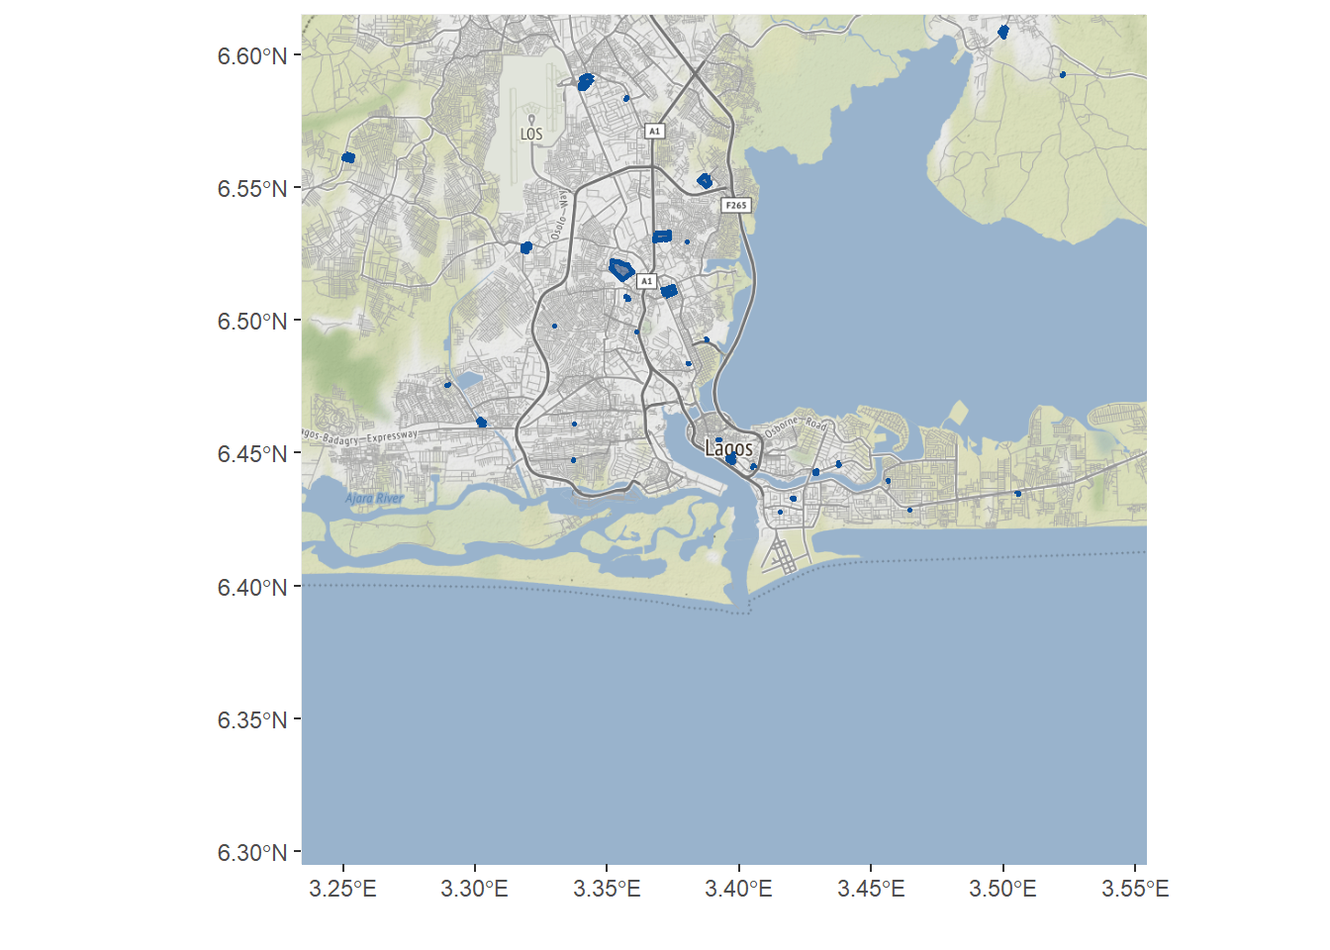
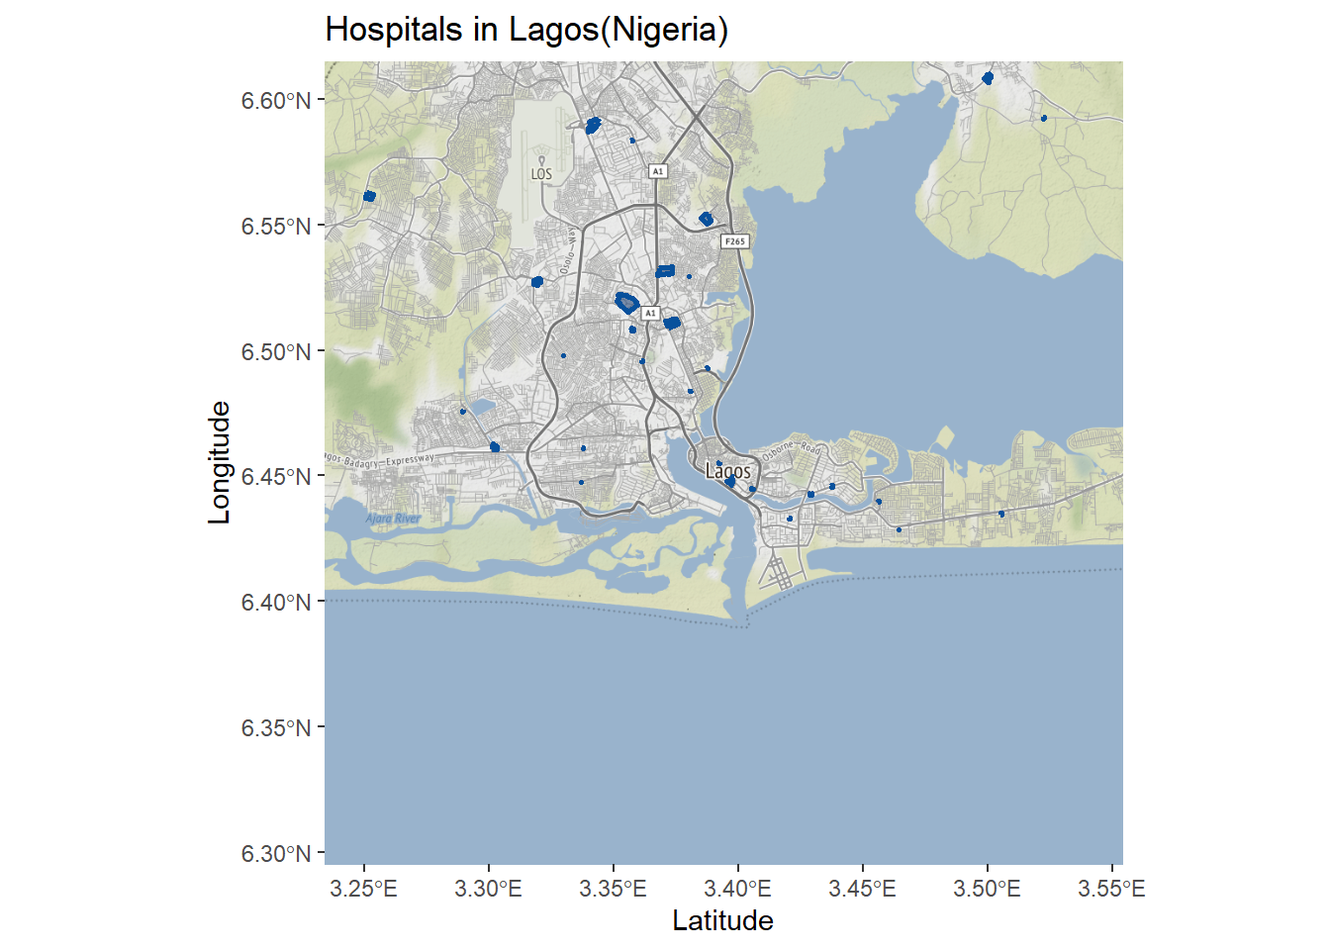
Updated osm figure titles

diff --git a/docs/osm.html b/docs/osm.html
@@ -364,7 +364,7 @@ div.tocify {
       <a href="land_cover.html">Land Cover</a>
     </li>
     <li>
-      <a href="dhs.html">DHS</a>
+      <a href="dhs-data.html">DHS</a>
     </li>
     <li>
       <a href="malaria.html">Malaria</a>
@@ -616,7 +616,7 @@ lagos_hospitals$bbox</code></pre>
 <pre class="r"><code># metadata
 lagos_hospitals$meta</code></pre>
 <pre><code>## $timestamp
-## [1] &quot;[ Thu 5 Apr 2021 09:35:12 ]&quot;
+## [1] &quot;[ Sun 1 Apr 2021 03:08:59 ]&quot;
 ## 
 ## $OSM_version
 ## [1] &quot;0.6&quot;
@@ -1769,8 +1769,10 @@ ggmap(lagos_map) +
           colour = &quot;#08519c&quot;,
           fill = &quot;#08306b&quot;,
           alpha = .5,
-          size = 1)+
-  labs(x = &quot;&quot;, y = &quot;&quot;)</code></pre>
+          size = 1) +
+  labs(title = &quot;Hospitals in Lagos(Nigeria)&quot;,
+       x = &quot;Latitude&quot;,
+       y = &quot;Longitude&quot;)</code></pre>
 <p><img src="osm_files/figure-html/lagos-hospitals-example-1.png" width="672" /></p>
 <p>The <code>osmdata</code> package can also be used to download other spatial features such as highways and rivers in Lagos, and overlay them on top of each other using <code>ggplot2</code> to create a map of Lagos. For this we create multiple queries for each feature as follows.</p>
 <pre class="r"><code>library(osmdata)
@@ -1803,14 +1805,17 @@ lagos_hospitals &lt;- lagos_bb %&gt;%
   add_osm_feature(&quot;amenity&quot;, &quot;hospital&quot;) %&gt;%
   osmdata_sf()</code></pre>
 <p>Then we use the <code>ggplot2</code> package to visualise each of these features along with the hospitals in Lagos. Note how we have used different colours, line sizes (thicknesses) and opacities to differentiate among the features.</p>
-<pre class="r"><code># visualising all retreived features over each other to form a map of Lagos
+<pre class="r"><code># visualising all retrieved features over each other to form a map of Lagos
 ggplot() +
   geom_sf(data = lagos_streets$osm_lines, inherit.aes = FALSE, color = &quot;#ffbe7f&quot;, size = .4, alpha = .8) +
   geom_sf(data = lagos_small_streets$osm_lines, inherit.aes = FALSE, color = &quot;#a6a6a6&quot;, size = .2, alpha = .8) +
   geom_sf(data = lagos_rivers$osm_lines, inherit.aes = FALSE, color = &quot;#7fc0ff&quot;, size = .8, alpha = .5) +
   geom_sf(data = lagos_hospitals$osm_polygons, inherit.aes = FALSE, colour = &quot;#08519c&quot;, fill = &quot;#08306b&quot;,alpha = .5, size = 1) +
   coord_sf(xlim = c(3.23, 3.56), ylim = c(6.4,6.629), expand = FALSE) +
-  theme_bw()</code></pre>
+  theme_bw() +
+  labs(title = &quot;Hospitals in Lagos(Nigeria)&quot;,
+       x = &quot;Latitude&quot;,
+       y = &quot;Longitude&quot;)</code></pre>
 <p><img src="osm_files/figure-html/vis-lagos-features-and-hospitals-example-1.png" width="672" /></p>
 <p>We can also use the <code>leaflet</code> package to visualise an interactive map of the hospitals in Lagos.</p>
 <pre class="r"><code>#install.packages(&quot;leaflet&quot;)
@@ -1820,8 +1825,8 @@ leaflet() %&gt;%
   addTiles() %&gt;% 
   addPolygons(data = lagos_hospitals$osm_polygons,
               label = lagos_hospitals$osm_polygons$name)</code></pre>
-<div id="htmlwidget-486f8dc056bdd3f77128" style="width:672px;height:480px;" class="leaflet html-widget"></div>
-<script type="application/json" data-for="htmlwidget-486f8dc056bdd3f77128">{"x":{"options":{"crs":{"crsClass":"L.CRS.EPSG3857","code":null,"proj4def":null,"projectedBounds":null,"options":{}}},"calls":[{"method":"addTiles","args":["//{s}.tile.openstreetmap.org/{z}/{x}/{y}.png",null,null,{"minZoom":0,"maxZoom":18,"tileSize":256,"subdomains":"abc","errorTileUrl":"","tms":false,"noWrap":false,"zoomOffset":0,"zoomReverse":false,"opacity":1,"zIndex":1,"detectRetina":false,"attribution":"&copy; <a href=\"http://openstreetmap.org\">OpenStreetMap<\/a> contributors, <a href=\"http://creativecommons.org/licenses/by-sa/2.0/\">CC-BY-SA<\/a>"}]},{"method":"addPolygons","args":[[[[{"lng":[3.3879416,3.3870162,3.3866818,3.3848376,3.386569,3.3873583,3.3881526,3.3882941,3.3889711,3.3887527,3.3886271,3.388594,3.3881013,3.3880034,3.3879416],"lat":[6.5542207,6.5541097,6.5543968,6.5525167,6.5511423,6.5504759,6.5508598,6.5509942,6.5515684,6.5519514,6.5519812,6.5522151,6.5532259,6.5540817,6.5542207]}]],[[{"lng":[3.3681755,3.3681953,3.3682322,3.3679506,3.367964,3.3676778,3.3676868,3.369322,3.3695373,3.3700726,3.3715489,3.3724542,3.3728672,3.3734057,3.3735859,3.3736072,3.3736125,3.3736024,3.3735694,3.3735594,3.3735715,3.3733498,3.3724809,3.3709842,3.3695278,3.368699,3.3681755],"lat":[6.532734,6.5321606,6.5310949,6.5310923,6.5305353,6.5305248,6.529706,6.5300765,6.5301253,6.5302916,6.5305642,6.5303645,6.5304715,6.53049,6.530506,6.530888,6.5309826,6.531487,6.5319167,6.5320472,6.5324553,6.5331544,6.532931,6.5328457,6.5327924,6.5327566,6.532734]}]],[[{"lng":[3.4369585,3.4370621,3.4372653,3.4373038,3.4374614,3.4374953,3.4375116,3.4376827,3.4378875,3.4378218,3.4376453,3.4376202,3.4373055,3.4372853,3.4372301,3.4369585],"lat":[6.4460012,6.4457112,6.4457795,6.4456797,6.445667,6.445537,6.445457,6.4455146,6.4455835,6.4457629,6.4462445,6.4462356,6.4461245,6.4461175,6.4460985,6.4460012]}]],[[{"lng":[3.3568566,3.3573568,3.3574587,3.3569585,3.3568566],"lat":[6.5834889,6.5836834,6.5834316,6.5832331,6.5834889]}]],[[{"lng":[3.420182,3.4207523,3.420635,3.4205885,3.4204135,3.4201467,3.4201385,3.4201306,3.4200905,3.4200791,3.4201586,3.420182],"lat":[6.4332741,6.4331235,6.4326832,6.4326959,6.4327441,6.4328174,6.4328546,6.4328911,6.4329023,6.4329047,6.4331902,6.4332741]}]],[[{"lng":[3.4560249,3.4561498,3.4561533,3.4563991,3.4563991,3.4564215,3.4564582,3.4564586,3.4562689,3.4561521,3.4560249],"lat":[6.4394842,6.439602,6.4397273,6.4397255,6.4396826,6.4396605,6.43966,6.4394448,6.4394442,6.4393578,6.4394842]}]],[[{"lng":[3.505188,3.5051797,3.5052098,3.5052036,3.5051727,3.5051586,3.5051591,3.5051719,3.505194,3.5052241,3.5056984,3.5056832,3.505188],"lat":[6.4344648,6.4345939,6.4346271,6.4346939,6.4347026,6.4349196,6.4349513,6.4349741,6.4349864,6.4349917,6.4350385,6.4345095,6.4344648]}]],[[{"lng":[3.4290805,3.429164,3.4292709,3.4295033,3.4292069,3.4289924,3.428983,3.4289186,3.4288703,3.428818,3.4285981,3.428666,3.4287335,3.4290983,3.4291318,3.4290805],"lat":[6.4433276,6.4433482,6.4430498,6.4424007,6.4424127,6.4424966,6.442478,6.44247,6.4424194,6.442402,6.4423514,6.442668,6.4429831,6.4430537,6.443095,6.4433276]}]],[[{"lng":[3.3958197,3.3957649,3.3957532,3.3957397,3.3955232,3.3954115,3.3954153,3.3960519,3.3964529,3.3966528,3.3967113,3.3967879,3.3969659,3.3970528,3.3973409,3.3973953,3.3977544,3.3977038,3.397677,3.3977122,3.3978541,3.3976272,3.397609,3.3968522,3.3967058,3.3965582,3.3965228,3.3964749,3.3961821,3.3960981,3.3958197],"lat":[6.4485127,6.4484039,6.4483837,6.4483608,6.4479601,6.4477556,6.4476863,6.4472802,6.4469954,6.4468411,6.4467942,6.4467358,6.4466003,6.4465331,6.4463045,6.446375,6.4468755,6.446925,6.4469494,6.4470005,6.4471925,6.4473581,6.4473716,6.4479345,6.448049,6.4481375,6.4481652,6.4481047,6.4483335,6.4483744,6.4485127]}]],[[{"lng":[3.3444917,3.3445296,3.3445537,3.344661,3.3438268,3.3433413,3.3428693,3.3425662,3.3420512,3.3418983,3.3422336,3.3416623,3.3412331,3.3410481,3.3406612,3.3403212,3.3398974,3.3398708,3.3397686,3.3400851,3.3400411,3.3398292,3.3397418,3.3400328,3.3405599,3.3410668,3.340804,3.3401307,3.3401504,3.3401823,3.3402085,3.3401415,3.3401388,3.340179,3.3403426,3.340745,3.3422068,3.3427003,3.3428666,3.3430007,3.343057,3.3430235,3.3430409,3.3431187,3.3431523,3.3432032,3.3442533,3.3444947,3.3444766,3.3444917],"lat":[6.5909877,6.5909641,6.5909854,6.5908389,6.5899729,6.5894667,6.5889764,6.5892642,6.5887339,6.5885927,6.588273,6.5876921,6.5872391,6.5874257,6.5873051,6.5871992,6.5870713,6.5871131,6.5872738,6.5879106,6.5880199,6.5883743,6.5885234,6.5888392,6.5893614,6.5898557,6.5900955,6.5907589,6.5907818,6.590819,6.5908495,6.5909375,6.5909748,6.591036,6.5911133,6.5913025,6.5918301,6.5920059,6.5919926,6.5919366,6.5919033,6.5918514,6.5918447,6.5917808,6.5917581,6.5917901,6.5911719,6.5910181,6.5910001,6.5909877]}]],[[{"lng":[3.2510138,3.2535265,3.2530092,3.2503709,3.2510138],"lat":[6.5627677,6.5620042,6.5599999,6.5606973,6.5627677]}]],[[{"lng":[3.4057919,3.4058357,3.4053896,3.4050315,3.4051764,3.4054384,3.4055746,3.4057919],"lat":[6.4443262,6.444822,6.4451212,6.4447121,6.4445924,6.4443818,6.4442694,6.4443262]}]],[[{"lng":[3.3979508,3.3976116,3.3973687,3.3977079,3.3979508],"lat":[6.4494278,6.4489219,6.4490828,6.4495886,6.4494278]}]],[[{"lng":[3.3972393,3.3970956,3.3971464,3.3975027,3.3975828,3.397681,3.3973135,3.3972393],"lat":[6.448899,6.4486827,6.4486405,6.4483925,6.448494,6.4486264,6.4489057,6.448899]}]],[[{"lng":[3.3923634,3.3923792,3.3925045,3.3924649,3.3924115,3.3921738,3.3919891,3.3923634],"lat":[6.45531,6.455289,6.4551089,6.4550504,6.4549794,6.4548173,6.4550926,6.45531]}]],[[{"lng":[3.3014129,3.3032976,3.3031418,3.3034174,3.3030549,3.3018062,3.3016699,3.3018295,3.3018451,3.3017463,3.3012086,3.3013483,3.3013483,3.3013836,3.3013916,3.301409,3.3013739,3.3014129],"lat":[6.4604225,6.460407,6.4612195,6.4615926,6.461788,6.4626744,6.4624074,6.4623145,6.4621172,6.4621113,6.4621043,6.4616194,6.4614146,6.461418,6.4613351,6.4611538,6.4610764,6.4604225]}]],[[{"lng":[3.2895759,3.2898819,3.2895368,3.2894734,3.2894285,3.2893893,3.2891917,3.2895759],"lat":[6.476061,6.4757914,6.4754048,6.4754607,6.4755003,6.4754564,6.4756305,6.476061]}]],[[{"lng":[3.3520403,3.3520733,3.3520279,3.3519649,3.3518802,3.3517821,3.3519287,3.3530839,3.3540803,3.3541243,3.3541544,3.3541983,3.3542419,3.3542337,3.3542775,3.3550924,3.3552401,3.3552373,3.357764,3.3586588,3.3590088,3.3589437,3.3596776,3.3596807,3.3587951,3.3574884,3.3573459,3.3559022,3.3556198,3.355182,3.3550722,3.3549516,3.3541694,3.3542101,3.3541604,3.3540135,3.3539681,3.3539436,3.3530741,3.3524675,3.3523237,3.3523658,3.3524009,3.3523495,3.3522817,3.352187,3.3518223,3.3515594,3.351356,3.3513245,3.3513841,3.3515699,3.3516505,3.3516996,3.3518609,3.3519941,3.3520403],"lat":[6.5211661,6.5214194,6.5216076,6.5217817,6.521925,6.522047,6.5224051,6.5221321,6.5219485,6.5219762,6.5220631,6.5220563,6.5220495,6.5219517,6.5219083,6.5217316,6.521699,6.5213323,6.5207618,6.5196143,6.519162,6.519079,6.518116,6.5179837,6.5173869,6.516464,6.5163563,6.5152654,6.5152883,6.5157828,6.5159068,6.5159407,6.516633,6.5168691,6.5168892,6.5169362,6.5169527,6.5168377,6.5176215,6.518158,6.5182834,6.5186527,6.5187851,6.518826,6.5188791,6.5188129,6.5190219,6.5192379,6.5194086,6.5195166,6.5196768,6.5199869,6.5201576,6.5204641,6.520802,6.5211364,6.5211661]}]],[[{"lng":[3.3568871,3.3571103,3.3570996,3.3578219,3.3579076,3.3580176,3.3578328,3.3577026,3.3576048,3.3573879,3.3571648,3.3570568,3.3568871],"lat":[6.508001,6.507955,6.507894,6.5077719,6.5078888,6.5079775,6.5083166,6.5085481,6.5086392,6.5087396,6.5088353,6.5088615,6.508001]}]],[[{"lng":[3.5000429,3.500392,3.5008914,3.5012447,3.5008508,3.5010132,3.5003433,3.5003078,3.5002865,3.5000957,3.4992999,3.4986218,3.4990412,3.5000429],"lat":[6.6105552,6.6103213,6.609809,6.6095872,6.6089016,6.6087806,6.6076594,6.6071351,6.6068205,6.6066228,6.6075343,6.6082563,6.6089424,6.6105552]}]],[[{"lng":[3.319058,3.3183686,3.3179516,3.317906,3.3194724,3.3199552,3.3205935,3.3205265,3.3204836,3.3203762,3.3201215,3.3196387,3.3195931,3.3194925,3.3194911,3.3194105,3.3193544,3.3193423,3.319058],"lat":[6.528101,6.5280011,6.5279331,6.5262077,6.525704,6.5275827,6.527159,6.5282436,6.5283597,6.5286469,6.52859,6.5285287,6.5285262,6.52853,6.5284954,6.5284966,6.5284967,6.528173,6.528101]}]],[[{"lng":[3.3613477,3.3610983,3.3611023,3.3612163,3.3613692,3.3613611,3.3613598,3.3613477],"lat":[6.4957053,6.4955987,6.4954695,6.4955094,6.4955614,6.495664,6.495712,6.4957053]}]],[[{"lng":[3.5220945,3.5222715,3.5227141,3.5226202,3.5220945],"lat":[6.5927333,6.5921178,6.5922857,6.5928079,6.5927333]}]],[[{"lng":[3.415044,3.4152799,3.4152826,3.4150467,3.415044],"lat":[6.4276863,6.4276824,6.4278437,6.4278476,6.4276863]}]],[[{"lng":[3.3709586,3.3707499,3.3711102,3.3713189,3.3709586],"lat":[6.5110462,6.5115328,6.5116853,6.5111988,6.5110462]}]],[[{"lng":[3.464045,3.4643802,3.4643855,3.4640503,3.464045],"lat":[6.4286288,6.4286355,6.4283703,6.4283636,6.4286288]}]],[[{"lng":[3.3718634,3.3710695,3.3722171,3.3721531,3.3738111,3.3739381,3.3749416,3.3757769,3.3739435,3.3718634],"lat":[6.5090162,6.5108991,6.5113888,6.5115981,6.5124266,6.5121667,6.5125673,6.5105826,6.5098613,6.5090162]}]],[[{"lng":[3.3726575,3.373387,3.3736284,3.3736713,3.3737598,3.3738028,3.373784,3.3729874,3.3726575],"lat":[6.5103263,6.5104516,6.5099266,6.5098999,6.5098999,6.509812,6.5097694,6.5094496,6.5103263]}]],[[{"lng":[3.3375176,3.3374917,3.3375953,3.3376212,3.3375176],"lat":[6.4611829,6.4610041,6.4609893,6.461168,6.4611829]}]],[[{"lng":[3.3803097,3.380197,3.3801895,3.3803022,3.3803097],"lat":[6.5290361,6.5290336,6.5293646,6.5293672,6.5290361]}]],[[{"lng":[3.3300359,3.3301099,3.329957,3.3298829,3.3300359],"lat":[6.4979955,6.4979224,6.4977695,6.4978427,6.4979955]}]],[[{"lng":[3.3871468,3.3874687,3.3877315,3.387458,3.3871468],"lat":[6.4927187,6.4929586,6.4926361,6.4925588,6.4927187]}]],[[{"lng":[3.3804538,3.3805557,3.3808373,3.3807461,3.3804538],"lat":[6.484301,6.4843409,6.4836587,6.4836187,6.484301]}]],[[{"lng":[3.3369255,3.3370425,3.3371015,3.3369845,3.3369255],"lat":[6.4476051,6.4476288,6.4473409,6.4473172,6.4476051]}]]],null,null,{"interactive":true,"className":"","stroke":true,"color":"#03F","weight":5,"opacity":0.5,"fill":true,"fillColor":"#03F","fillOpacity":0.2,"smoothFactor":1,"noClip":false},null,null,["Gbagada General Hospital","National Orthopaedic Hospital Igbobi","Gold Cross Hospital - Bourdillon","Reddington Hospital - Ikeja GRA","Reddington Hospital","Eye Foundation Hospital &amp; Laser Centre","St. Kizito Clinic &amp; Maternity Ward","Nigerian Police Hospital - Falomo","General Hospital Lagos","Lagos State University Teaching Hospital","Alimosho General Hospital Igando","Onikan Health Centre","St Nicholas Hospital","Lagos Island Maternity Hospital","Massey Street Children Hospital","Amuwo Odofin Maternal &amp; Childcare Centre","Emel Hospital","Lagos University Teaching Hospital","Randle General Hospital","General Hospital Ikorodu","Isolo General Hospital","Parklande Specialist Hospital","Health Center","Glen Eagles Hospital","Lagos Emergency Operations Center","Medison Specialist Women's Hospital","Lagos Health Center Harvey Road","Federal Psychiatric Hospital Yaba","Teaching / Specialist Hospital","MARANATHA MEDICAL CENTER","St. LukeÃƒÂ¢Ã‚â‚¬Ã‚Ëœs medical center","Ayeitoro PHC","Federal Medical Centre","Abbey Medical Centre"],{"interactive":false,"permanent":false,"direction":"auto","opacity":1,"offset":[0,0],"textsize":"10px","textOnly":false,"className":"","sticky":true},null]}],"limits":{"lat":[6.4276824,6.6105552],"lng":[3.2503709,3.5227141]}},"evals":[],"jsHooks":[]}</script>
+<div id="htmlwidget-7907073fd8fd6afec751" style="width:672px;height:480px;" class="leaflet html-widget"></div>
+<script type="application/json" data-for="htmlwidget-7907073fd8fd6afec751">{"x":{"options":{"crs":{"crsClass":"L.CRS.EPSG3857","code":null,"proj4def":null,"projectedBounds":null,"options":{}}},"calls":[{"method":"addTiles","args":["//{s}.tile.openstreetmap.org/{z}/{x}/{y}.png",null,null,{"minZoom":0,"maxZoom":18,"tileSize":256,"subdomains":"abc","errorTileUrl":"","tms":false,"noWrap":false,"zoomOffset":0,"zoomReverse":false,"opacity":1,"zIndex":1,"detectRetina":false,"attribution":"&copy; <a href=\"http://openstreetmap.org\">OpenStreetMap<\/a> contributors, <a href=\"http://creativecommons.org/licenses/by-sa/2.0/\">CC-BY-SA<\/a>"}]},{"method":"addPolygons","args":[[[[{"lng":[3.3879416,3.3870162,3.3866818,3.3848376,3.386569,3.3873583,3.3881526,3.3882941,3.3889711,3.3887527,3.3886271,3.388594,3.3881013,3.3880034,3.3879416],"lat":[6.5542207,6.5541097,6.5543968,6.5525167,6.5511423,6.5504759,6.5508598,6.5509942,6.5515684,6.5519514,6.5519812,6.5522151,6.5532259,6.5540817,6.5542207]}]],[[{"lng":[3.3681755,3.3681953,3.3682322,3.3679506,3.367964,3.3676778,3.3676868,3.369322,3.3695373,3.3700726,3.3715489,3.3724542,3.3728672,3.3734057,3.3735859,3.3736072,3.3736125,3.3736024,3.3735694,3.3735594,3.3735715,3.3733498,3.3724809,3.3709842,3.3695278,3.368699,3.3681755],"lat":[6.532734,6.5321606,6.5310949,6.5310923,6.5305353,6.5305248,6.529706,6.5300765,6.5301253,6.5302916,6.5305642,6.5303645,6.5304715,6.53049,6.530506,6.530888,6.5309826,6.531487,6.5319167,6.5320472,6.5324553,6.5331544,6.532931,6.5328457,6.5327924,6.5327566,6.532734]}]],[[{"lng":[3.4369585,3.4370621,3.4372653,3.4373038,3.4374614,3.4374953,3.4375116,3.4376827,3.4378875,3.4378218,3.4376453,3.4376202,3.4373055,3.4372853,3.4372301,3.4369585],"lat":[6.4460012,6.4457112,6.4457795,6.4456797,6.445667,6.445537,6.445457,6.4455146,6.4455835,6.4457629,6.4462445,6.4462356,6.4461245,6.4461175,6.4460985,6.4460012]}]],[[{"lng":[3.3568566,3.3573568,3.3574587,3.3569585,3.3568566],"lat":[6.5834889,6.5836834,6.5834316,6.5832331,6.5834889]}]],[[{"lng":[3.420182,3.4207523,3.420635,3.4205885,3.4204135,3.4201467,3.4201385,3.4201306,3.4200905,3.4200791,3.4201586,3.420182],"lat":[6.4332741,6.4331235,6.4326832,6.4326959,6.4327441,6.4328174,6.4328546,6.4328911,6.4329023,6.4329047,6.4331902,6.4332741]}]],[[{"lng":[3.4560249,3.4561498,3.4561533,3.4563991,3.4563991,3.4564215,3.4564582,3.4564586,3.4562689,3.4561521,3.4560249],"lat":[6.4394842,6.439602,6.4397273,6.4397255,6.4396826,6.4396605,6.43966,6.4394448,6.4394442,6.4393578,6.4394842]}]],[[{"lng":[3.505188,3.5051797,3.5052098,3.5052036,3.5051727,3.5051586,3.5051591,3.5051719,3.505194,3.5052241,3.5056984,3.5056832,3.505188],"lat":[6.4344648,6.4345939,6.4346271,6.4346939,6.4347026,6.4349196,6.4349513,6.4349741,6.4349864,6.4349917,6.4350385,6.4345095,6.4344648]}]],[[{"lng":[3.4290805,3.429164,3.4292709,3.4295033,3.4292069,3.4289924,3.428983,3.4289186,3.4288703,3.428818,3.4285981,3.428666,3.4287335,3.4290983,3.4291318,3.4290805],"lat":[6.4433276,6.4433482,6.4430498,6.4424007,6.4424127,6.4424966,6.442478,6.44247,6.4424194,6.442402,6.4423514,6.442668,6.4429831,6.4430537,6.443095,6.4433276]}]],[[{"lng":[3.3958197,3.3957649,3.3957532,3.3957397,3.3955232,3.3954115,3.3954153,3.3960519,3.3964529,3.3966528,3.3967113,3.3967879,3.3969659,3.3970528,3.3973409,3.3973953,3.3977544,3.3977038,3.397677,3.3977122,3.3978541,3.3976272,3.397609,3.3968522,3.3967058,3.3965582,3.3965228,3.3964749,3.3961821,3.3960981,3.3958197],"lat":[6.4485127,6.4484039,6.4483837,6.4483608,6.4479601,6.4477556,6.4476863,6.4472802,6.4469954,6.4468411,6.4467942,6.4467358,6.4466003,6.4465331,6.4463045,6.446375,6.4468755,6.446925,6.4469494,6.4470005,6.4471925,6.4473581,6.4473716,6.4479345,6.448049,6.4481375,6.4481652,6.4481047,6.4483335,6.4483744,6.4485127]}]],[[{"lng":[3.3444917,3.3445296,3.3445537,3.344661,3.3438268,3.3433413,3.3428693,3.3425662,3.3420512,3.3418983,3.3422336,3.3416623,3.3412331,3.3410481,3.3406612,3.3403212,3.3398974,3.3398708,3.3397686,3.3400851,3.3400411,3.3398292,3.3397418,3.3400328,3.3405599,3.3410668,3.340804,3.3401307,3.3401504,3.3401823,3.3402085,3.3401415,3.3401388,3.340179,3.3403426,3.340745,3.3422068,3.3427003,3.3428666,3.3430007,3.343057,3.3430235,3.3430409,3.3431187,3.3431523,3.3432032,3.3442533,3.3444947,3.3444766,3.3444917],"lat":[6.5909877,6.5909641,6.5909854,6.5908389,6.5899729,6.5894667,6.5889764,6.5892642,6.5887339,6.5885927,6.588273,6.5876921,6.5872391,6.5874257,6.5873051,6.5871992,6.5870713,6.5871131,6.5872738,6.5879106,6.5880199,6.5883743,6.5885234,6.5888392,6.5893614,6.5898557,6.5900955,6.5907589,6.5907818,6.590819,6.5908495,6.5909375,6.5909748,6.591036,6.5911133,6.5913025,6.5918301,6.5920059,6.5919926,6.5919366,6.5919033,6.5918514,6.5918447,6.5917808,6.5917581,6.5917901,6.5911719,6.5910181,6.5910001,6.5909877]}]],[[{"lng":[3.2510138,3.2535265,3.2530092,3.2503709,3.2510138],"lat":[6.5627677,6.5620042,6.5599999,6.5606973,6.5627677]}]],[[{"lng":[3.4057919,3.4058357,3.4053896,3.4050315,3.4051764,3.4054384,3.4055746,3.4057919],"lat":[6.4443262,6.444822,6.4451212,6.4447121,6.4445924,6.4443818,6.4442694,6.4443262]}]],[[{"lng":[3.3979508,3.3976116,3.3973687,3.3977079,3.3979508],"lat":[6.4494278,6.4489219,6.4490828,6.4495886,6.4494278]}]],[[{"lng":[3.3972393,3.3970956,3.3971464,3.3975027,3.3975828,3.397681,3.3973135,3.3972393],"lat":[6.448899,6.4486827,6.4486405,6.4483925,6.448494,6.4486264,6.4489057,6.448899]}]],[[{"lng":[3.3923634,3.3923792,3.3925045,3.3924649,3.3924115,3.3921738,3.3919891,3.3923634],"lat":[6.45531,6.455289,6.4551089,6.4550504,6.4549794,6.4548173,6.4550926,6.45531]}]],[[{"lng":[3.3014129,3.3032976,3.3031418,3.3034174,3.3030549,3.3018062,3.3016699,3.3018295,3.3018451,3.3017463,3.3012086,3.3013483,3.3013483,3.3013836,3.3013916,3.301409,3.3013739,3.3014129],"lat":[6.4604225,6.460407,6.4612195,6.4615926,6.461788,6.4626744,6.4624074,6.4623145,6.4621172,6.4621113,6.4621043,6.4616194,6.4614146,6.461418,6.4613351,6.4611538,6.4610764,6.4604225]}]],[[{"lng":[3.2895759,3.2898819,3.2895368,3.2894734,3.2894285,3.2893893,3.2891917,3.2895759],"lat":[6.476061,6.4757914,6.4754048,6.4754607,6.4755003,6.4754564,6.4756305,6.476061]}]],[[{"lng":[3.3520403,3.3520733,3.3520279,3.3519649,3.3518802,3.3517821,3.3519287,3.3530839,3.3540803,3.3541243,3.3541544,3.3541983,3.3542419,3.3542337,3.3542775,3.3550924,3.3552401,3.3552373,3.357764,3.3586588,3.3590088,3.3589437,3.3596776,3.3596807,3.3587951,3.3574884,3.3573459,3.3559022,3.3556198,3.355182,3.3550722,3.3549516,3.3541694,3.3542101,3.3541604,3.3540135,3.3539681,3.3539436,3.3530741,3.3524675,3.3523237,3.3523658,3.3524009,3.3523495,3.3522817,3.352187,3.3518223,3.3515594,3.351356,3.3513245,3.3513841,3.3515699,3.3516505,3.3516996,3.3518609,3.3519941,3.3520403],"lat":[6.5211661,6.5214194,6.5216076,6.5217817,6.521925,6.522047,6.5224051,6.5221321,6.5219485,6.5219762,6.5220631,6.5220563,6.5220495,6.5219517,6.5219083,6.5217316,6.521699,6.5213323,6.5207618,6.5196143,6.519162,6.519079,6.518116,6.5179837,6.5173869,6.516464,6.5163563,6.5152654,6.5152883,6.5157828,6.5159068,6.5159407,6.516633,6.5168691,6.5168892,6.5169362,6.5169527,6.5168377,6.5176215,6.518158,6.5182834,6.5186527,6.5187851,6.518826,6.5188791,6.5188129,6.5190219,6.5192379,6.5194086,6.5195166,6.5196768,6.5199869,6.5201576,6.5204641,6.520802,6.5211364,6.5211661]}]],[[{"lng":[3.3568871,3.3571103,3.3570996,3.3578219,3.3579076,3.3580176,3.3578328,3.3577026,3.3576048,3.3573879,3.3571648,3.3570568,3.3568871],"lat":[6.508001,6.507955,6.507894,6.5077719,6.5078888,6.5079775,6.5083166,6.5085481,6.5086392,6.5087396,6.5088353,6.5088615,6.508001]}]],[[{"lng":[3.5000429,3.500392,3.5008914,3.5012447,3.5008508,3.5010132,3.5003433,3.5003078,3.5002865,3.5000957,3.4992999,3.4986218,3.4990412,3.5000429],"lat":[6.6105552,6.6103213,6.609809,6.6095872,6.6089016,6.6087806,6.6076594,6.6071351,6.6068205,6.6066228,6.6075343,6.6082563,6.6089424,6.6105552]}]],[[{"lng":[3.319058,3.3183686,3.3179516,3.317906,3.3194724,3.3199552,3.3205935,3.3205265,3.3204836,3.3203762,3.3201215,3.3196387,3.3195931,3.3194925,3.3194911,3.3194105,3.3193544,3.3193423,3.319058],"lat":[6.528101,6.5280011,6.5279331,6.5262077,6.525704,6.5275827,6.527159,6.5282436,6.5283597,6.5286469,6.52859,6.5285287,6.5285262,6.52853,6.5284954,6.5284966,6.5284967,6.528173,6.528101]}]],[[{"lng":[3.3613477,3.3610983,3.3611023,3.3612163,3.3613692,3.3613611,3.3613598,3.3613477],"lat":[6.4957053,6.4955987,6.4954695,6.4955094,6.4955614,6.495664,6.495712,6.4957053]}]],[[{"lng":[3.5220945,3.5222715,3.5227141,3.5226202,3.5220945],"lat":[6.5927333,6.5921178,6.5922857,6.5928079,6.5927333]}]],[[{"lng":[3.415044,3.4152799,3.4152826,3.4150467,3.415044],"lat":[6.4276863,6.4276824,6.4278437,6.4278476,6.4276863]}]],[[{"lng":[3.3709586,3.3707499,3.3711102,3.3713189,3.3709586],"lat":[6.5110462,6.5115328,6.5116853,6.5111988,6.5110462]}]],[[{"lng":[3.464045,3.4643802,3.4643855,3.4640503,3.464045],"lat":[6.4286288,6.4286355,6.4283703,6.4283636,6.4286288]}]],[[{"lng":[3.3718634,3.3710695,3.3722171,3.3721531,3.3738111,3.3739381,3.3749416,3.3757769,3.3739435,3.3718634],"lat":[6.5090162,6.5108991,6.5113888,6.5115981,6.5124266,6.5121667,6.5125673,6.5105826,6.5098613,6.5090162]}]],[[{"lng":[3.3726575,3.373387,3.3736284,3.3736713,3.3737598,3.3738028,3.373784,3.3729874,3.3726575],"lat":[6.5103263,6.5104516,6.5099266,6.5098999,6.5098999,6.509812,6.5097694,6.5094496,6.5103263]}]],[[{"lng":[3.3375176,3.3374917,3.3375953,3.3376212,3.3375176],"lat":[6.4611829,6.4610041,6.4609893,6.461168,6.4611829]}]],[[{"lng":[3.3803097,3.380197,3.3801895,3.3803022,3.3803097],"lat":[6.5290361,6.5290336,6.5293646,6.5293672,6.5290361]}]],[[{"lng":[3.3300359,3.3301099,3.329957,3.3298829,3.3300359],"lat":[6.4979955,6.4979224,6.4977695,6.4978427,6.4979955]}]],[[{"lng":[3.3871468,3.3874687,3.3877315,3.387458,3.3871468],"lat":[6.4927187,6.4929586,6.4926361,6.4925588,6.4927187]}]],[[{"lng":[3.3804538,3.3805557,3.3808373,3.3807461,3.3804538],"lat":[6.484301,6.4843409,6.4836587,6.4836187,6.484301]}]],[[{"lng":[3.3369255,3.3370425,3.3371015,3.3369845,3.3369255],"lat":[6.4476051,6.4476288,6.4473409,6.4473172,6.4476051]}]]],null,null,{"interactive":true,"className":"","stroke":true,"color":"#03F","weight":5,"opacity":0.5,"fill":true,"fillColor":"#03F","fillOpacity":0.2,"smoothFactor":1,"noClip":false},null,null,["Gbagada General Hospital","National Orthopaedic Hospital Igbobi","Gold Cross Hospital - Bourdillon","Reddington Hospital - Ikeja GRA","Reddington Hospital","Eye Foundation Hospital &amp; Laser Centre","St. Kizito Clinic &amp; Maternity Ward","Nigerian Police Hospital - Falomo","General Hospital Lagos","Lagos State University Teaching Hospital","Alimosho General Hospital Igando","Onikan Health Centre","St Nicholas Hospital","Lagos Island Maternity Hospital","Massey Street Children Hospital","Amuwo Odofin Maternal &amp; Childcare Centre","Emel Hospital","Lagos University Teaching Hospital","Randle General Hospital","General Hospital Ikorodu","Isolo General Hospital","Parklande Specialist Hospital","Health Center","Glen Eagles Hospital","Lagos Emergency Operations Center","Medison Specialist Women's Hospital","Lagos Health Center Harvey Road","Federal Psychiatric Hospital Yaba","Teaching / Specialist Hospital","MARANATHA MEDICAL CENTER","St. LukeÃƒÂ¢Ã‚â‚¬Ã‚Ëœs medical center","Ayeitoro PHC","Federal Medical Centre","Abbey Medical Centre"],{"interactive":false,"permanent":false,"direction":"auto","opacity":1,"offset":[0,0],"textsize":"10px","textOnly":false,"className":"","sticky":true},null]}],"limits":{"lat":[6.4276824,6.6105552],"lng":[3.2503709,3.5227141]}},"evals":[],"jsHooks":[]}</script>
 </div>
 <div id="references" class="section level1">
 <h1>References</h1>
